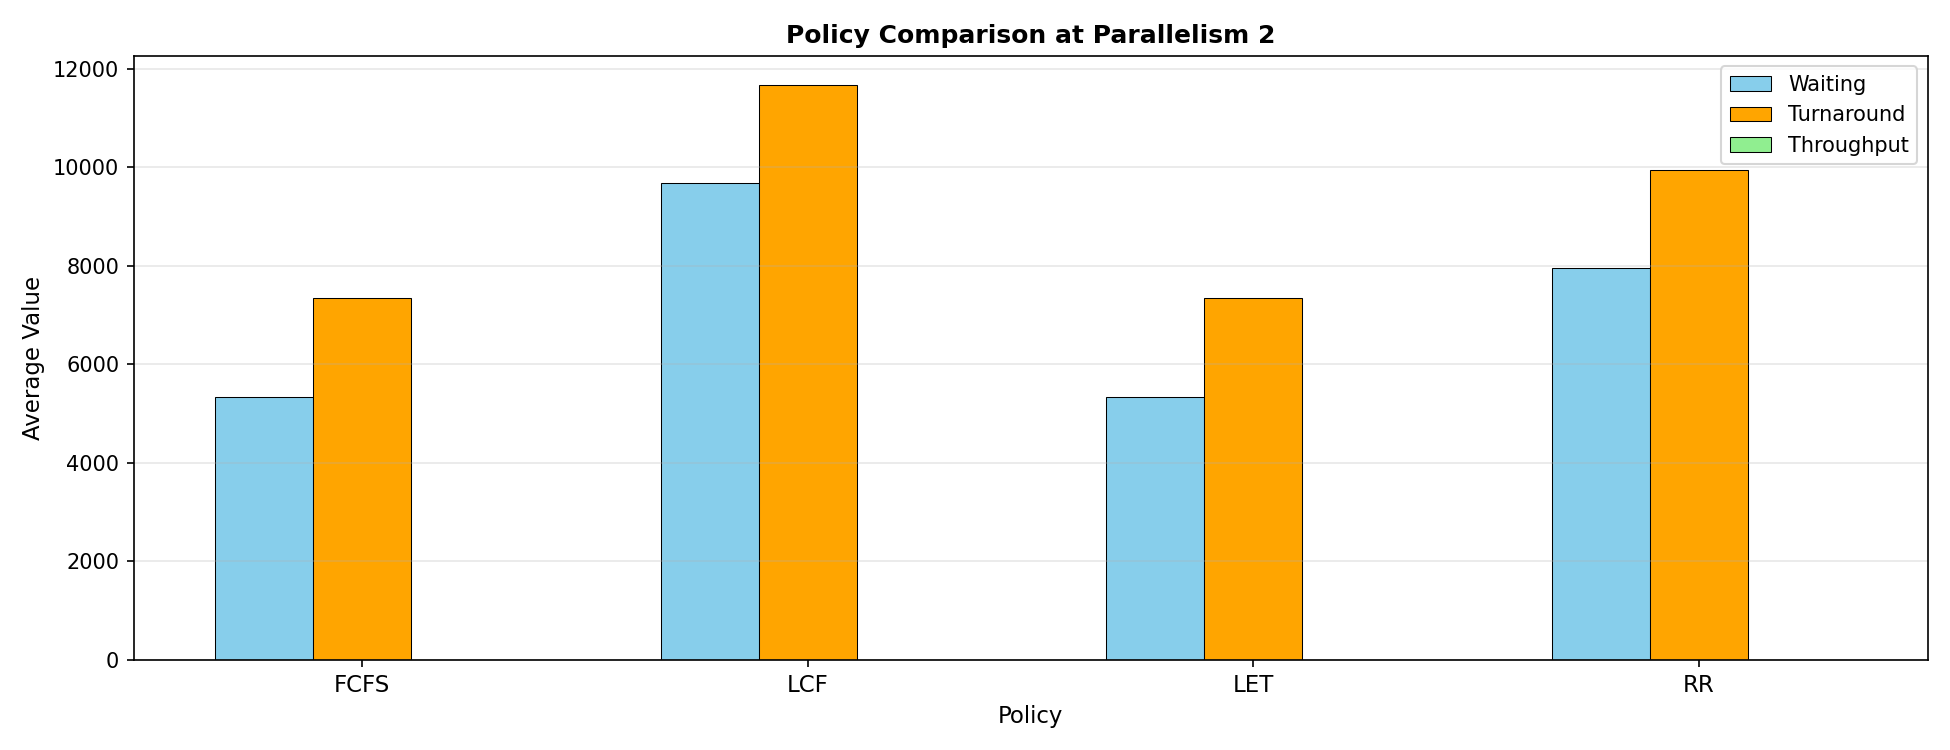
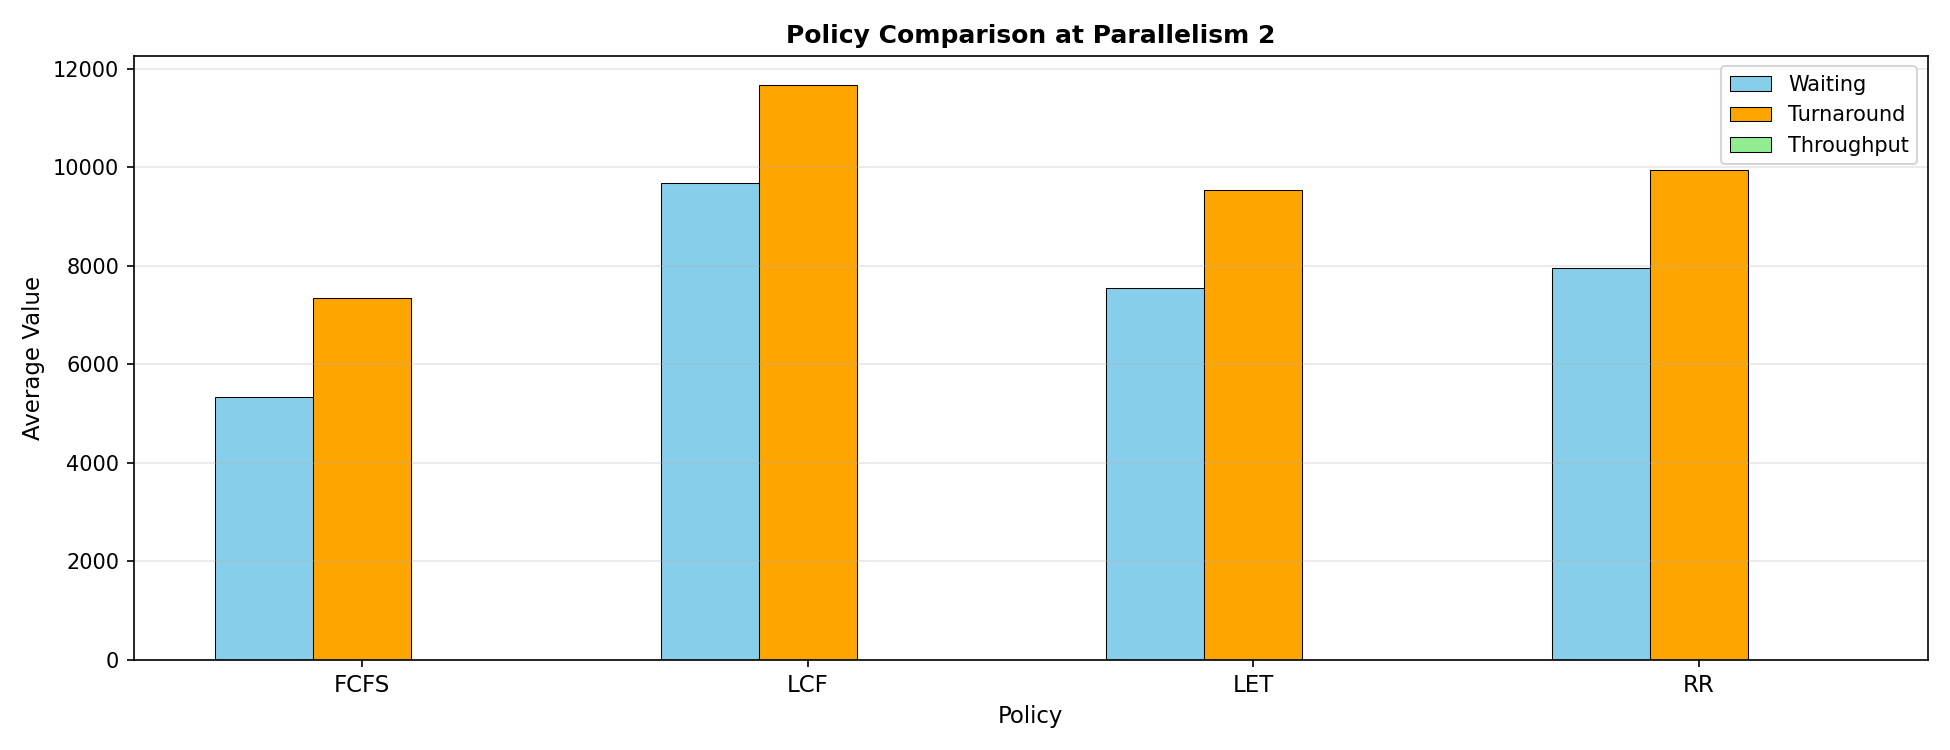
fix: FCFS & LET

Changed region(s): [[0.5538, 0.2453, 0.6769, 0.552]]

diff --git a/src/scheduler/less_execution_time.c b/src/scheduler/less_execution_time.c
@@ -6,7 +6,7 @@
 
 #include <glib.h>
 #include <stdlib.h>
-#include <time.h>
+#include <sys/time.h>
 
 typedef struct {
   GHashTable *users_commands;
@@ -16,11 +16,11 @@ typedef struct {
   Scheduler *scheduler;
 } LetData;
 
-static long now_ms(clockid_t clock_id) {
-  struct timespec ts;
-  if (clock_gettime(clock_id, &ts) != 0)
+static long now_ms(void) {
+  struct timeval tv;
+  if (gettimeofday(&tv, NULL) != 0)
     return 0;
-  return (long)(ts.tv_sec * 1000L + ts.tv_nsec / 1000000L);
+  return (long)(tv.tv_sec * 1000L + tv.tv_usec / 1000L);
 }
 
 static long get_active_time_for_user(LetData *let, int user_id) {
@@ -31,7 +31,7 @@ static long get_active_time_for_user(LetData *let, int user_id) {
 static void rebuild_active_time_by_user(LetData *let) {
   g_hash_table_remove_all(let->active_time_by_user);
 
-  long now = now_ms(CLOCK_MONOTONIC);
+  long now = now_ms();
   GQueue *running_commands = get_running_commands(let->scheduler);
   if (running_commands == NULL)
     return;
